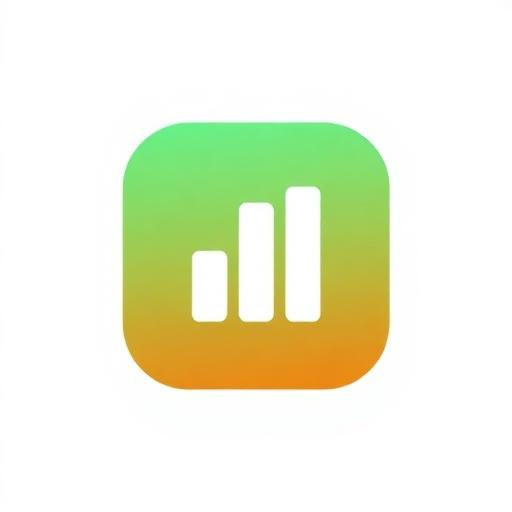
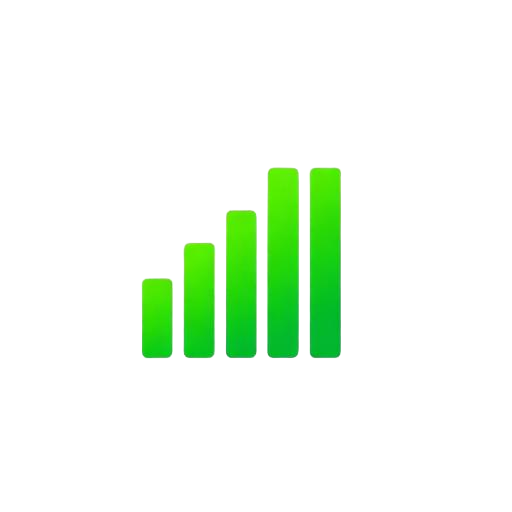
Changes

Changed region(s): [[0.2188, 0.2188, 0.7812, 0.7812]]

diff --git a/src/components/app/SplashScreen.tsx b/src/components/app/SplashScreen.tsx
@@ -1,0 +1,86 @@
+import { motion } from 'framer-motion';
+import { BarChart3 } from 'lucide-react';
+
+export default function SplashScreen() {
+  return (
+    <div
+      className="fixed inset-0 z-[9999] flex flex-col items-center justify-center"
+      style={{ background: 'var(--color-bg-base)' }}
+    >
+      <motion.div
+        initial={{ scale: 0.7, opacity: 0 }}
+        animate={{ scale: 1, opacity: 1 }}
+        transition={{ duration: 0.5, ease: [0.22, 1, 0.36, 1] }}
+        className="flex flex-col items-center"
+        style={{ gap: 16 }}
+      >
+        <motion.div
+          initial={{ rotate: -10 }}
+          animate={{ rotate: 0 }}
+          transition={{ duration: 0.6, ease: 'easeOut' }}
+          className="flex items-center justify-center"
+          style={{
+            width: 72,
+            height: 72,
+            borderRadius: 'var(--radius-2xl)',
+            background: 'linear-gradient(135deg, var(--color-green-500), var(--color-green-700))',
+            boxShadow: '0 12px 40px rgba(22, 163, 74, 0.3)',
+          }}
+        >
+          <BarChart3 className="text-white" style={{ width: 36, height: 36 }} />
+        </motion.div>
+
+        <div className="flex items-center" style={{ gap: 4 }}>
+          <motion.span
+            initial={{ opacity: 0, x: -10 }}
+            animate={{ opacity: 1, x: 0 }}
+            transition={{ delay: 0.3, duration: 0.4 }}
+            style={{ fontSize: 24, fontWeight: 900, color: 'var(--color-text-strong)' }}
+          >
+            FinDash
+          </motion.span>
+          <motion.span
+            initial={{ opacity: 0, x: 10 }}
+            animate={{ opacity: 1, x: 0 }}
+            transition={{ delay: 0.4, duration: 0.4 }}
+            style={{ fontSize: 24, fontWeight: 900, color: 'var(--color-green-600)' }}
+          >
+            Pro
+          </motion.span>
+        </div>
+
+        <motion.p
+          initial={{ opacity: 0 }}
+          animate={{ opacity: 1 }}
+          transition={{ delay: 0.6, duration: 0.4 }}
+          style={{ fontSize: 13, color: 'var(--color-text-subtle)', fontWeight: 500 }}
+        >
+          Controle total das suas finanças
+        </motion.p>
+      </motion.div>
+
+      {/* Loading dots */}
+      <motion.div
+        initial={{ opacity: 0 }}
+        animate={{ opacity: 1 }}
+        transition={{ delay: 0.8 }}
+        className="absolute flex"
+        style={{ bottom: 'calc(env(safe-area-inset-bottom, 20px) + 48px)', gap: 6 }}
+      >
+        {[0, 1, 2].map(i => (
+          <motion.div
+            key={i}
+            animate={{ scale: [1, 1.3, 1], opacity: [0.3, 1, 0.3] }}
+            transition={{ duration: 1.2, repeat: Infinity, delay: i * 0.2 }}
+            style={{
+              width: 6,
+              height: 6,
+              borderRadius: '50%',
+              background: 'var(--color-green-500)',
+            }}
+          />
+        ))}
+      </motion.div>
+    </div>
+  );
+}

diff --git a/src/components/app/PageTransition.tsx b/src/components/app/PageTransition.tsx
@@ -1,0 +1,22 @@
+import { motion } from 'framer-motion';
+import { ReactNode } from 'react';
+
+const variants = {
+  initial: { opacity: 0, y: 8 },
+  animate: { opacity: 1, y: 0 },
+  exit: { opacity: 0, y: -8 },
+};
+
+export default function PageTransition({ children }: { children: ReactNode }) {
+  return (
+    <motion.div
+      variants={variants}
+      initial="initial"
+      animate="animate"
+      exit="exit"
+      transition={{ duration: 0.2, ease: [0.22, 1, 0.36, 1] }}
+    >
+      {children}
+    </motion.div>
+  );
+}
